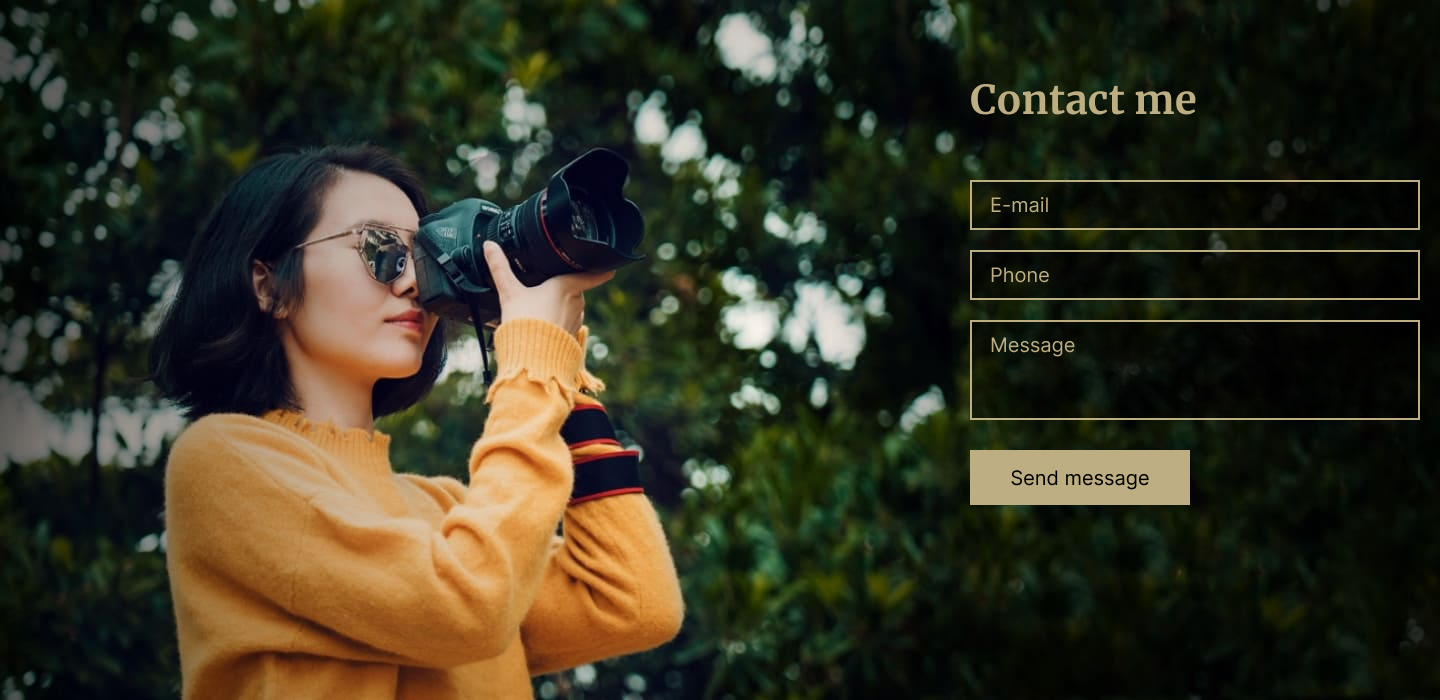
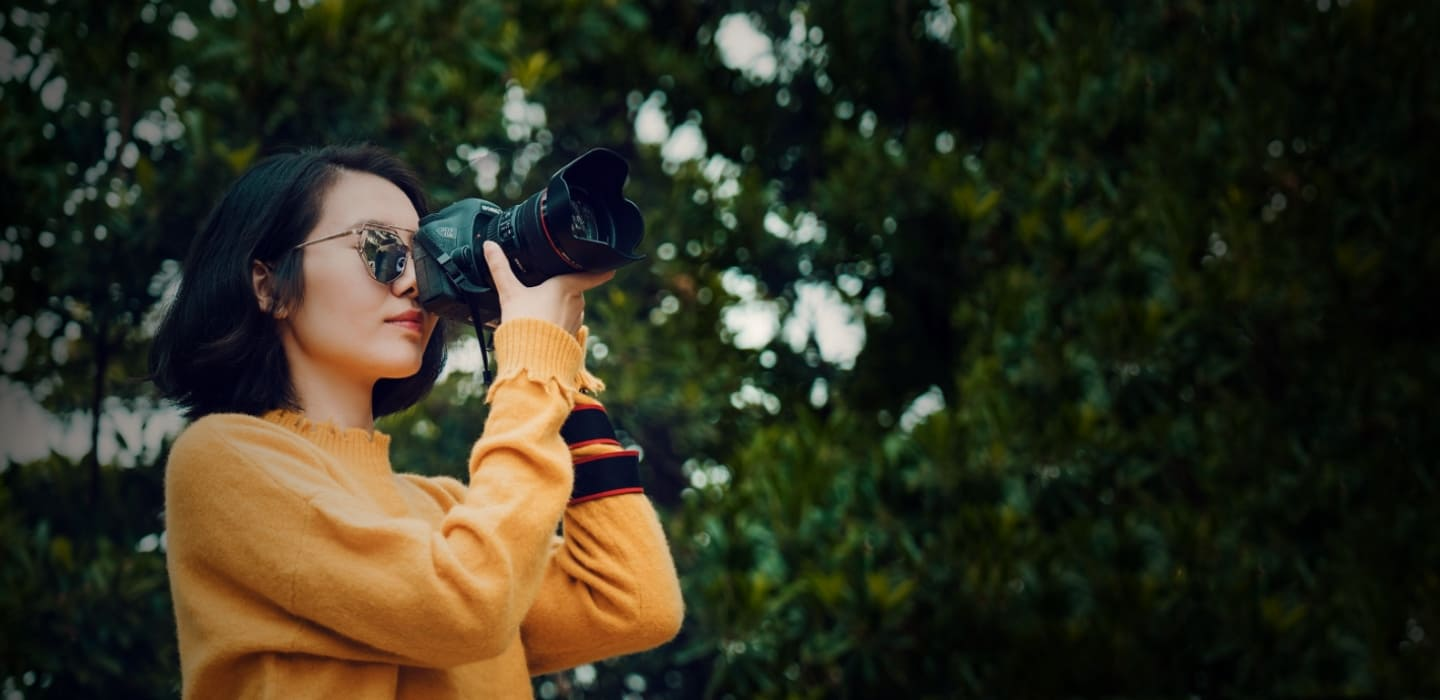
feat: contacts

diff --git a/portfolio/style.css b/portfolio/style.css
@@ -478,8 +478,8 @@ body {
 .price__item {
   width: 450px;
   padding-top: 55px;
-  padding-bottom: 43px;
-  border: 1px solid #BDAE82;
+  padding-bottom: 38px;
+  border: 3px solid #BDAE82;
   display: -webkit-box;
   display: -ms-flexbox;
   display: flex;
@@ -521,4 +521,93 @@ body {
   color: #FFFFFF;
   text-align: center;
   margin-bottom: 18px;
+}
+
+/*--------------------*/
+.contacts {
+  position: relative;
+  height: 700px;
+  background: url("assets/img/contacts_bg.jpg") no-repeat center center;
+}
+
+.contacts__block {
+  width: 450px;
+  position: absolute;
+  right: 50px;
+  top: 80px;
+  display: -webkit-box;
+  display: -ms-flexbox;
+  display: flex;
+  -webkit-box-orient: vertical;
+  -webkit-box-direction: normal;
+      -ms-flex-direction: column;
+          flex-direction: column;
+  -webkit-box-pack: center;
+      -ms-flex-pack: center;
+          justify-content: center;
+  -webkit-box-align: start;
+      -ms-flex-align: start;
+          align-items: flex-start;
+}
+
+.contacts__title {
+  font-family: Merriweather;
+  font-weight: bold;
+  font-size: 40px;
+  color: #BDAE82;
+  margin-bottom: 60px;
+}
+
+.contacts__form-block {
+  display: -webkit-box;
+  display: -ms-flexbox;
+  display: flex;
+  -webkit-box-orient: vertical;
+  -webkit-box-direction: normal;
+      -ms-flex-direction: column;
+          flex-direction: column;
+}
+
+.form {
+  width: 450px;
+}
+
+.form__email, .form__phone, .form__message {
+  padding: 5px 20px;
+  height: 50px;
+  margin-bottom: 20px;
+  background-color: transparent;
+  font-size: 20px;
+  color: #BDAE82;
+  border: 3px solid #BDAE82;
+}
+
+.form__email::-webkit-input-placeholder, .form__phone::-webkit-input-placeholder, .form__message::-webkit-input-placeholder {
+  font-family: inherit;
+  color: #bdae82;
+  font-size: 20px;
+}
+
+.form__email:-ms-input-placeholder, .form__phone:-ms-input-placeholder, .form__message:-ms-input-placeholder {
+  font-family: inherit;
+  color: #bdae82;
+  font-size: 20px;
+}
+
+.form__email::-ms-input-placeholder, .form__phone::-ms-input-placeholder, .form__message::-ms-input-placeholder {
+  font-family: inherit;
+  color: #bdae82;
+  font-size: 20px;
+}
+
+.form__email::placeholder, .form__phone::placeholder, .form__message::placeholder {
+  font-family: inherit;
+  color: #bdae82;
+  font-size: 20px;
+}
+
+.form__message {
+  height: 100px;
+  padding: 10px 20px;
+  margin-bottom: 30px;
 }

diff --git a/portfolio/assets/scss/_general.scss b/portfolio/assets/scss/_general.scss
@@ -263,8 +263,8 @@ body {
   &__item {
     width: 450px;
     padding-top: 55px;
-    padding-bottom: 43px;
-    border: 1px solid $main_color;
+    padding-bottom: 38px;
+    border: 3px solid $main_color;
     display: flex;
     flex-direction: column;
     align-items: center;
@@ -296,5 +296,57 @@ body {
       text-align: center;
       margin-bottom: 18px;
     }
+  }
+}
+/*--------------------*/
+.contacts {
+  position: relative;
+  height: 700px;
+  background: url("assets/img/contacts_bg.jpg") no-repeat center center;
+  &__block {
+    width: 450px;
+    position: absolute;
+    right: 50px;
+    top: 80px;
+    display: flex;
+    flex-direction: column;
+    justify-content: center;
+    align-items: flex-start;
+  }
+  &__title {
+    font-family: Merriweather;
+    font-weight: bold;
+    font-size: 40px;
+    color: $main_color;
+    margin-bottom: 60px;
+  }
+
+  &__form-block {
+    display: flex;
+    flex-direction: column;
+  }
+}
+.form {
+  width: 450px;
+  &__email,
+  &__phone,
+  &__message {
+    padding: 5px 20px;
+    height: 50px;
+    margin-bottom: 20px;
+    background-color: transparent;
+    font-size: 20px;
+    color: $main_color;
+    border: 3px solid $main_color;
+    &::placeholder {
+      font-family: inherit;
+      color: #bdae82;
+      font-size: 20px;
+    }
+  }
+  &__message {
+    height: 100px;
+    padding: 10px 20px;
+    margin-bottom: 30px;
   }
 }

diff --git a/portfolio/index.html b/portfolio/index.html
@@ -174,10 +174,22 @@
           </div>
         </div>
       </section>
-
-      <section class="contacts">
-      </section>
     </div>
+
+    <section class="contacts">
+      <div class="container">
+        <div class="contacts__block">
+          <h2 class="contacts__title">Contact me</h2>
+          <form action="#" class="contacts__form-block form">
+            <input type="email" class="form__email" placeholder="E-mail">
+            <input type="tel" class="form__phone" placeholder="Phone">
+            <textarea class="form__message" placeholder="Message"></textarea>
+            <button class="btn">Send message</button>
+          </form>
+        </div>
+      </div>
+    </section>
+
   </main>
 
   <footer class="footer">
